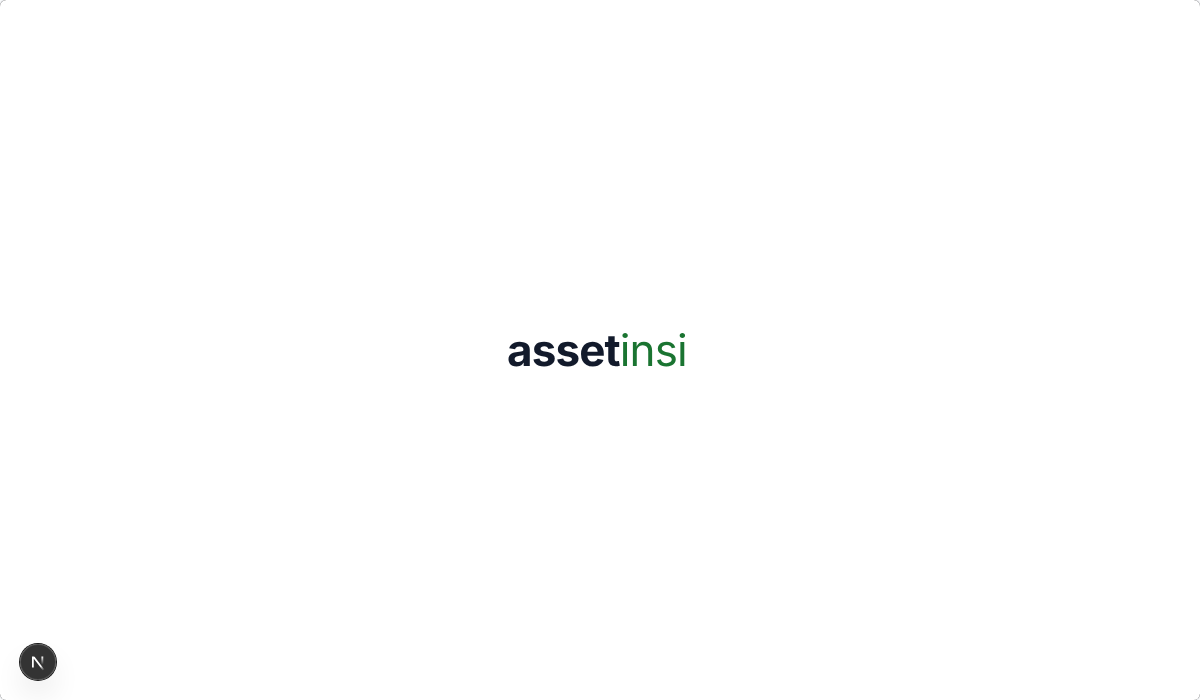
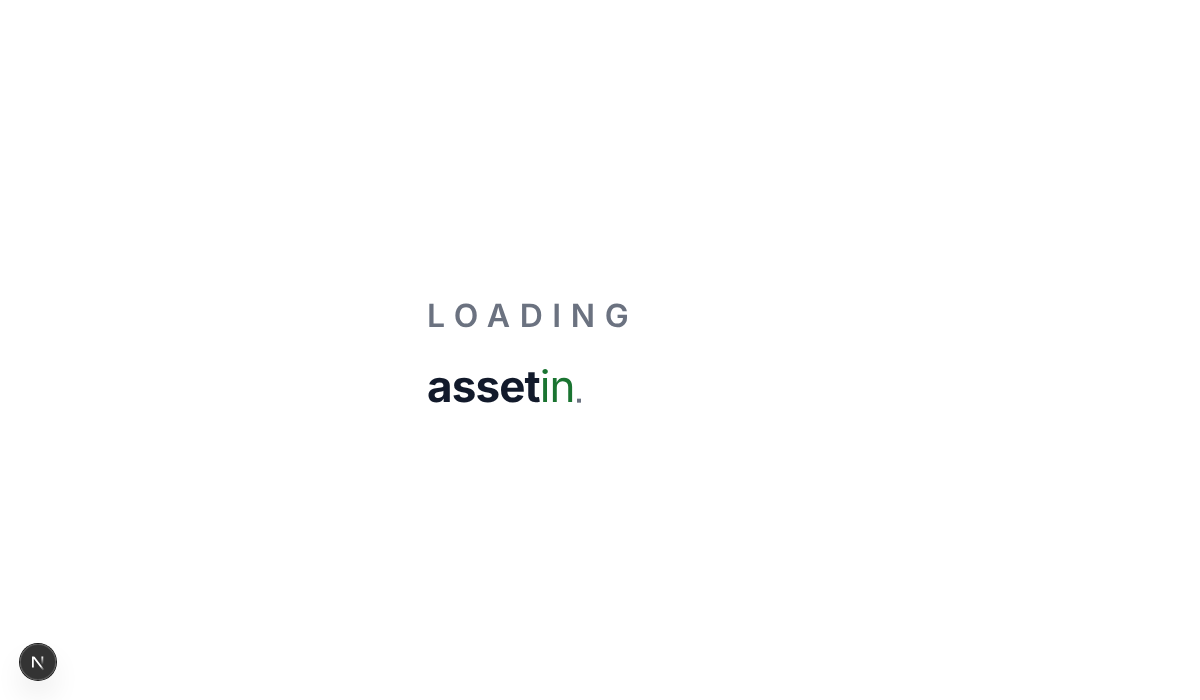
feat(D-163): LOADING zarovnaný s logom, nový screenshot
Claude-Session: https://claude.ai/code/session_01WEuQWRd85hFJ2HsGzhYnkH

Changed region(s): [[0.3392, 0.42, 0.5858, 0.6]]

diff --git a/components/loading-logo.tsx b/components/loading-logo.tsx
@@ -50,8 +50,9 @@ export function LoadingLogo({ label = "Načítavam" }: { label?: string }) {
     <div
       role="status"
       aria-label={label}
-      className="pointer-events-none fixed inset-0 z-40 flex flex-col items-center justify-center gap-6 bg-white"
+      className="pointer-events-none fixed inset-0 z-40 flex items-center justify-center bg-white"
     >
+      <div className="flex flex-col items-start gap-6">
       <span
         aria-hidden="true"
         className="font-semibold uppercase"
@@ -59,7 +60,6 @@ export function LoadingLogo({ label = "Načítavam" }: { label?: string }) {
           fontFamily: "var(--font-sans), var(--ds-font-sans)",
           fontSize: "var(--ds-text-3xl)",
           letterSpacing: "0.3em",
-          paddingLeft: "0.3em",
           color: "var(--ds-text-muted)",
         }}
       >
@@ -84,6 +84,7 @@ export function LoadingLogo({ label = "Načítavam" }: { label?: string }) {
           <span className="logo-dot" aria-hidden="true"></span>
         </span>
       </span>
+      </div>
     </div>
   );
 }
